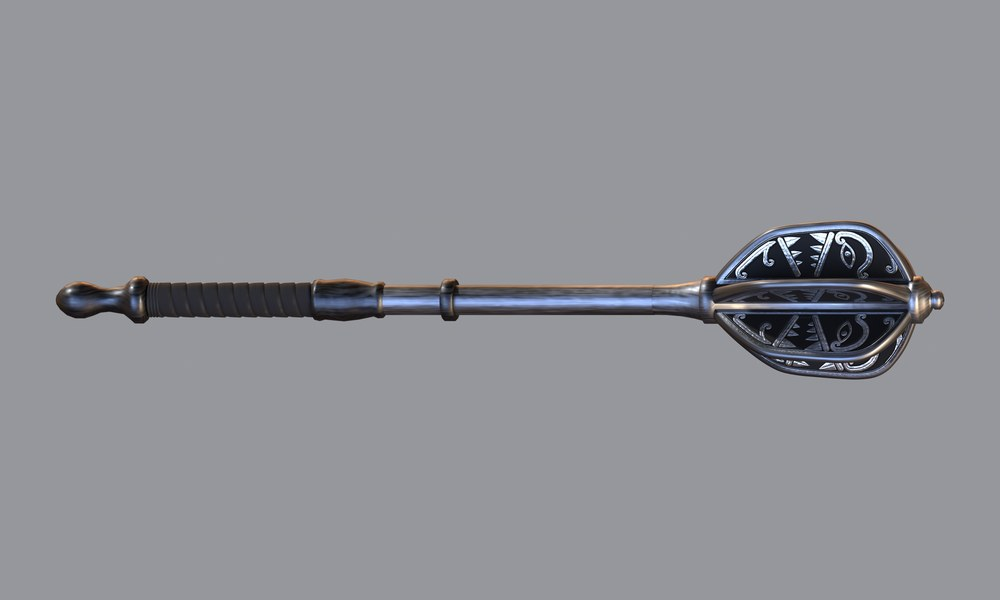
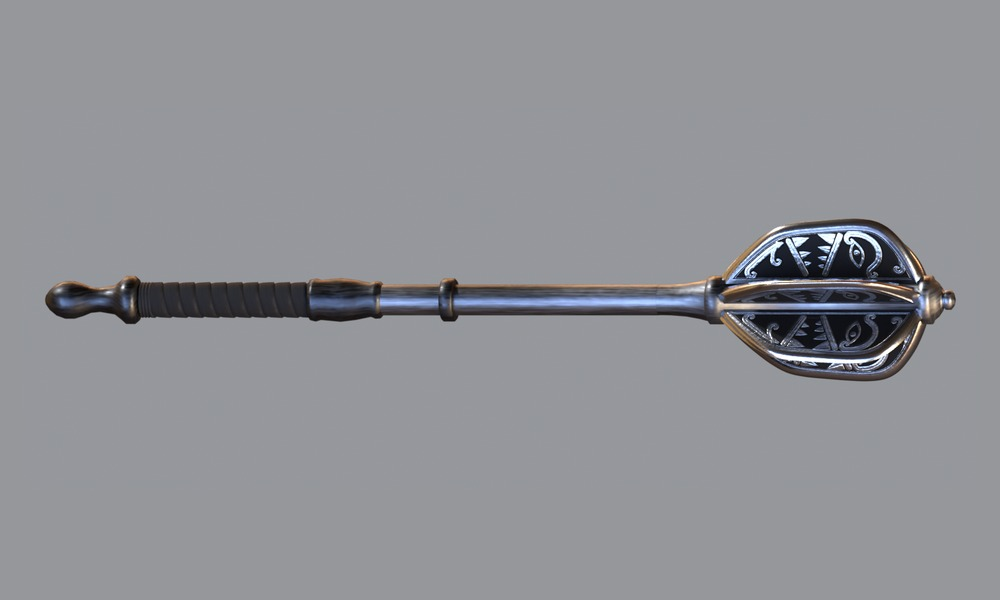
1.1.0: bow v8, greatsword v4, pointed maces; flat carved faces shade flat in game
- items.py: bow v8 (work_bow8), greatsword v4-sf (work_gs4_sf), straight sword v1-sf
  (work_straightsword_sf), six-flanged mace v4 (work_mc4, default) and classic mace v3
  (work_mc2v3, option). The -sf folders are v4 / v1 with the flat carved faces' outline
  vertices split from their chamfers (bow v8's own-vertices change); geometry and maps
  identical (set2\shading-fix-1.1.0.png).
- gb_blender.py: keep the source NIF's normal seams through the game build. The weld merged
  split vertices and PyNifly writes one normal per vertex, so every split (bow v8 included)
  was lost and the flat faces leaned ~24 deg again. The seams are recorded at the weld,
  protected from the collapse and split again after the orientation step; zero-area
  slivers are dissolved so they cannot flip a vertex normal.
- FOMOD mace pictures and descriptions: the pointed maces. README and CHANGELOG updated.

diff --git a/tools/items.py b/tools/items.py
@@ -25,9 +25,11 @@ ITEMS = {
                           "wrap": {"name": "NordicWrapA5", "tex": None, "dds_from": r"D:\Modlists\Njordlinger\mods\Nordic Carved Redesign A (test)\textures\pbr\ApocryphaTest\NordicCarvedRedesignA5\nordicwrapa5"}},
                   third="nordicsword.nif", first="1stpersonnordicsword.nif", stem="sword", weap="DLC2NordicSword", fp_stat="03C353"),
     # the straight sword (installer option, 2026-11-11): greatsword v3's blade and upper hilt as a one-hander
-    "sword2": dict(version="straight v1", sources=[W(r"work_straightsword\tn_straightsword.nif")], orient=True, option=True, path_stem="sword",
+    # 1.1.0 shading fix (2026-11-12): v1-sf = v1's NIF with the flat guard and pommel faces' outline vertices split from
+    # their chamfers (set2\shading_fix_split.py, as bow v8) - geometry and maps identical; set2\shading-fix-1.1.0.png
+    "sword2": dict(version="straight v1-sf", sources=[W(r"work_straightsword_sf\tn_straightsword.nif")], orient=True, option=True, path_stem="sword",
                    sheath=dict(version="v2", src=W(r"work_sheath_straightsword_v2\tn_sheath_straightsword_v2.nif"), tex=W(r"work_sheath_straightsword_v2\tex\tn_sheath_straightsword_v2")),
-                   shapes={"metal": {"name": "tn_straightsword", "tex": W(r"work_straightsword\tex\tn_straightsword")}, "wrap": {"name": "TNStraightswordWrap", "tex": W(r"work_straightsword\tex\tn_straightsword_wrap")}},
+                   shapes={"metal": {"name": "tn_straightsword", "tex": W(r"work_straightsword_sf\tex\tn_straightsword")}, "wrap": {"name": "TNStraightswordWrap", "tex": W(r"work_straightsword_sf\tex\tn_straightsword_wrap")}},
                    third="nordicsword.nif", first="1stpersonnordicsword.nif", stem="swordstraight", weap="DLC2NordicSword", fp_stat="03C353"),
     # v13 (approved 2026-11-11 23:57): v12's head (the owner's traced outline, 21:32; the same NIF, byte for byte) repainted
     # to the engraving layout rule - layout records in work_v13\engraving_check.json pass engraving-layout-gate
@@ -35,10 +37,13 @@ ITEMS = {
                       shapes={"metal": {"name": "TNBattleaxe", "tex": W(r"work_v13\tex\tn_battleaxe")}, "wrap": {"name": "TNBattleaxeWrap", "tex": W(r"work_v13\tex\tn_battleaxe_wrap")}},
                       third="nordicbattleaxe.nif", first="1stpersonnordicbattleaxe.nif", stem="battleaxe", weap="DLC2NordicBattleaxe", fp_stat="03C34F"),
     # orient: the ricasso wrap (TNGreatswordWrap2) came out of tn_lib wound inward on most of its faces (1.0.0)
-    "greatsword": dict(version="v3", sources=[W(r"work_gs3\tn_greatsword.nif")], orient=True,
+    # v4 (approved 2026-11-12 01:14: "Greatsword looks good"): v3 with the lower-guard medallion on a level boss;
+    # v4-sf (1.1.0 shading fix, 2026-11-12): v4's NIF with the flat guard / boss / pommel faces' outline vertices split from
+    # their chamfers (set2\shading_fix_split.py, as bow v8) - geometry and maps identical; set2\shading-fix-1.1.0.png
+    "greatsword": dict(version="v4-sf", sources=[W(r"work_gs4_sf\tn_greatsword.nif")], orient=True,
                        sheath=dict(version="v2", src=W(r"work_sheath_greatsword_v2\tn_sheath_greatsword_v2.nif"), tex=W(r"work_sheath_greatsword_v2\tex\tn_sheath_greatsword_v2")),
-                       shapes={"metal": {"name": "tn_greatsword", "tex": W(r"work_gs3\tex\tn_greatsword")}, "wrap": {"name": "TNGreatswordWrap", "tex": W(r"work_gs3\tex\tn_greatsword_wrap")},
-                               "wrap2": {"name": "TNGreatswordWrap2", "tex": W(r"work_gs3\tex\tn_greatsword_wrap2"), "target": 1500}},
+                       shapes={"metal": {"name": "tn_greatsword", "tex": W(r"work_gs4_sf\tex\tn_greatsword")}, "wrap": {"name": "TNGreatswordWrap", "tex": W(r"work_gs4_sf\tex\tn_greatsword_wrap")},
+                               "wrap2": {"name": "TNGreatswordWrap2", "tex": W(r"work_gs4_sf\tex\tn_greatsword_wrap2"), "target": 1500}},
                        third="nordicgreatsword.nif", first="1stpersonnordicgreatsword.nif", stem="greatsword", weap="DLC2NordicGreatsword", fp_stat="03C351"),
     "warhammer": dict(version="v2f", sources=[W(r"work_wh2f\tn_warhammer2.nif")], orient=True,   # v2f: v2e with the straight pommel (2026-11-11)
                       shapes={"metal": {"name": "tn_warhammer2", "tex": W(r"work_wh2f\tex\tn_warhammer2")}, "wrap": {"name": "TNWarhammer2Wrap", "tex": W(r"work_wh2f\tex\tn_warhammer2_wrap")}},
@@ -52,15 +57,18 @@ ITEMS = {
                    sheath=dict(version="v5", src=W(r"work_sheath_dagger_v5\tn_sheath_dagger_v5.nif"), tex=W(r"work_sheath_dagger_v5\tex\tn_sheath_dagger_v5")),
                    shapes={"metal": {"name": "tn_dagger2", "tex": W(r"work_dg3\tex\tn_dagger2")}, "wrap": {"name": "TNDagger2Wrap", "tex": W(r"work_dg3\tex\tn_dagger2_wrap")}},
                    third="nordicdagger.nif", first="1stpersonnordicdagger.nif", stem="dagger", weap="DLC2NordicDagger", fp_stat="03C350"),
-    "mace": dict(version="v3", sources=[W(r"work_mc3\tn_mace.nif")], orient=True,
-                 shapes={"metal": {"name": "tn_mace", "tex": W(r"work_mc3\tex\tn_mace")}, "wrap": {"name": "TNMaceWrap", "tex": W(r"work_mc3\tex\tn_mace_wrap")}},
+    # pointed maces (approved 2026-11-12 01:20: "mace looks good"): six-flanged v4 the default, classic v3 the option
+    "mace": dict(version="six-flanged v4", sources=[W(r"work_mc4\tn_mace.nif")], orient=True,
+                 shapes={"metal": {"name": "tn_mace", "tex": W(r"work_mc4\tex\tn_mace")}, "wrap": {"name": "TNMaceWrap", "tex": W(r"work_mc4\tex\tn_mace_wrap")}},
                  third="nordicmace.nif", first="1stpersonnordicmace.nif", stem="mace", weap="DLC2NordicMace", fp_stat="03C352"),
-    "mace2": dict(version="v2", sources=[W(r"work_mc2\tn_mace.nif")], orient=True, path_stem="mace",
-                  shapes={"metal": {"name": "tn_mace", "tex": W(r"work_mc2\tex\tn_mace")}, "wrap": {"name": "TNMaceWrap", "tex": W(r"work_mc2\tex\tn_mace_wrap")}},
+    "mace2": dict(version="classic v3", sources=[W(r"work_mc2v3\tn_mace.nif")], orient=True, path_stem="mace",
+                  shapes={"metal": {"name": "tn_mace", "tex": W(r"work_mc2v3\tex\tn_mace")}, "wrap": {"name": "TNMaceWrap", "tex": W(r"work_mc2v3\tex\tn_mace_wrap")}},
                   third="nordicmace.nif", first="1stpersonnordicmace.nif", stem="macev2", weap="DLC2NordicMace", fp_stat="03C352", option=True),
-    "bow": dict(version="v2", sources=[W(r"work_bow2\tn_bow2.nif")], skinned=True,
-                shapes={"metal": {"name": "tn_bow2", "tex": W(r"work_bow2\tex\tn_bow2")}, "wrap": {"name": "TNBowWrap", "tex": W(r"work_bow2\tex\tn_bow2_wrap")},
-                        "string": {"name": "TNBowString", "tex": W(r"work_bow2\tex\tn_bow2_string"), "target": None}},
+    # v8 (2026-11-12): v2's limbs, grip and string; the riser plate redesigned (v3-v8) and its flat carved faces given
+    # their own vertices (bow_v8_build.py: the surface gate passes, lean 0.3 deg p95 against v7's 24); skinned as before
+    "bow": dict(version="v8", sources=[W(r"work_bow8\tn_bow2.nif")], skinned=True,
+                shapes={"metal": {"name": "tn_bow2", "tex": W(r"work_bow8\tex\tn_bow2")}, "wrap": {"name": "TNBowWrap", "tex": W(r"work_bow8\tex\tn_bow2_wrap")},
+                        "string": {"name": "TNBowString", "tex": W(r"work_bow8\tex\tn_bow2_string"), "target": None}},
                 third="nordicbow.nif", first=None, stem="bow", weap="DLC2NordicBow", fp_stat="03CA7C"),
     "shield": dict(version="v4", sources=[W(r"work_sh4\tn_shield4.nif")], orient=True,   # v4: vanilla's placement and profile, faces outward (2026-11-11)
                    shapes={"metal": {"name": "tn_shield4_steel", "tex": W(r"work_sh4\tex\tn_shield4_steel"), "target": 18000}, "board": {"name": "tn_shield4_board", "tex": W(r"work_sh4\tex\tn_shield4_board"), "target": 2000}},

diff --git a/tools/gb_blender.py b/tools/gb_blender.py
@@ -65,6 +65,24 @@ def decimate(o, target):
     select_only(o); bpy.ops.object.mode_set(mode="EDIT"); bpy.ops.mesh.select_all(action="SELECT")
     bpy.ops.mesh.remove_doubles(threshold=0.0005, use_sharp_edge_from_normals=True)
     bpy.ops.object.mode_set(mode="OBJECT")
+    # zero-area slivers (the slab builders' tessellation leaves collinear triangles along straight outline runs, e.g.
+    # greatsword v4's upper guard back: 35) carry an arbitrary normal and a 180-degree corner, so Blender's angle-weighted
+    # vertex normal can flip at their middle vertex once a flat face has its own vertices - dissolved here
+    bm = bmesh.new(); bm.from_mesh(o.data); nf = len(bm.faces)
+    bmesh.ops.dissolve_degenerate(bm, dist=1e-5, edges=bm.edges[:])
+    stats.setdefault("degenerate_dissolved", {})[o.name] = nf - len(bm.faces); bm.to_mesh(o.data); bm.free(); o.data.update()
+    # NORMAL SEAMS (1.1.0 shading fix, 2026-11-12): where the source NIF stores a point twice with different normals
+    # (bow v8's riser, the _sf greatsword / straight sword: a flat carved face's own outline vertices, split from its
+    # chamfer so the face keeps its own normals), the weld above merged the copies and marked the edge sharp from the
+    # normals - but PyNifly writes ONE normal per vertex, so a sharp edge is only kept by splitting the vertex. Recorded
+    # here as position pairs, protected from the collapse like a UV seam, and split again after the decimation.
+    pk = lambda v: tuple(round(c, 5) for c in v.co)
+    shp = o.data.attributes.get("sharp_edge"); nseam = set(); nseam_v = set()
+    if shp:
+        for e in o.data.edges:
+            if shp.data[e.index].value:
+                a_, b_ = (pk(o.data.vertices[i]) for i in e.vertices); nseam.add(frozenset((a_, b_))); nseam_v.update(e.vertices)
+    stats.setdefault("normal_seam_edges", {})[o.name] = len(nseam)
     n0 = tris_of(o)
     if target and n0 > target:
         # UV seams are protected: every vertex on an edge whose two faces disagree on a UV is put in group 'seam',
@@ -77,6 +95,7 @@ def decimate(o, target):
             if (a[uvl].uv - b.link_loop_next[uvl].uv).length > 1e-5 or (a.link_loop_next[uvl].uv - b[uvl].uv).length > 1e-5:
                 seam.update(v.index for v in e.verts)
         bm.free()
+        seam |= nseam_v
         g = o.vertex_groups.new(name="seam"); g.add(sorted(seam), 1.0, "REPLACE")
         stats.setdefault("seam_verts", {})[o.name] = len(seam)
         m = o.modifiers.new("dec", "DECIMATE"); m.decimate_type = "COLLAPSE"; m.ratio = target / n0; m.use_collapse_triangulate = True
@@ -94,7 +113,19 @@ def decimate(o, target):
     for e in bm.edges:
         if len(e.link_faces) == 2 and e.calc_face_angle(0) > 0.87: sharp.data[e.index].value = True
     bm.free(); me.update()
+    NSEAM[o.name] = nseam
     return n0
+
+NSEAM = {}
+def split_normal_seams(o):
+    """The normal seams recorded by decimate() split again - each side keeps its own vertices, so its own normals.
+    Run AFTER orient_outward: split first, a flat face would be an island of its own and could be voted the wrong way."""
+    nseam = NSEAM.get(o.name)
+    if not nseam: return
+    me = o.data; bm = bmesh.new(); bm.from_mesh(me)
+    cut = [e for e in bm.edges if frozenset(tuple(round(c, 5) for c in v.co) for v in e.verts) in nseam]
+    bmesh.ops.split_edges(bm, edges=cut); bm.to_mesh(me); bm.free(); me.update()
+    stats.setdefault("normal_seam_split", {})[o.name] = {"recorded": len(nseam), "split_after_decimation": len(cut)}
 
 def export_single(o, path):
     select_only(o)
@@ -215,6 +246,8 @@ if C.get("orient"):
     for role, o in shapes.items():   # the npz dumps carry the oriented winding
         V, F, UV = arrays(o); np.savez(os.path.join(OUT, f"dec_{role}.npz"), V=V, F=F, UV=UV)
 
+for o in shapes.values(): split_normal_seams(o)   # after the orientation (1.1.0 shading fix)
+
 # ------------------------------------------------------------------ the sheath ('Scb'): its own approved NIF, in the weapon's frame
 # Welded and given sharp edges like the weapon's shapes, never decimated (the sheaths are ~2-4k triangles), oriented on
 # its own (the blade inside it would block every ray of the weapon's vote, and the sheath's rays the weapon's).
@@ -228,6 +261,7 @@ if C.get("sheath"):
     sh_o = sh_o[0]; sh_o.name = "dec_sheath"
     n0 = decimate(sh_o, None)
     stats["sheath"] = {"source": C["sheath"], "tris_before": n0, "tris_after": tris_of(sh_o), "orient": orient_outward([sh_o])}
+    split_normal_seams(sh_o)
     V, F, UV = arrays(sh_o); np.savez(os.path.join(OUT, "dec_sheath.npz"), V=V, F=F, UV=UV)
     export_single(sh_o, os.path.join(OUT, "dec_sheath.nif"))
     bpy.data.objects.remove(sh_o)

diff --git a/tools/build-packages.py b/tools/build-packages.py
@@ -122,9 +122,9 @@ STEPS = [  # (step, group, [(option, item, folder, image, description, default)]
          "The greatsword's double-edged blade and upper hilt at one-hand size, in a straight carved sheath of its own.", False)]),
     ("Mace", "Nordic Mace model", [
         ("Six-flanged mace (default)", "mace", "20 Mace - Six-flanged", "mace-six-flanged.jpg",
-         "A working six-flanged head, a beast's biting maw carved on every flange face.", True),
+         "A working six-flanged head with pointed striking edges, a beast's biting maw carved on every flange face.", True),
         ("Classic mace", "mace2", "21 Mace - Classic", "mace-classic.jpg",
-         "The vanilla mace's four-flanged shape, rebuilt and carved with the same biting maw.", False)]),
+         "The vanilla mace's four-flanged shape, rebuilt with pointed striking edges and carved with the same biting maw.", False)]),
     ("Shield", "Nordic Shield model", [
         ("Carved shield (default)", "shield", "30 Shield - Carved", "shield-carved.jpg",
          "The carved crest filled out to the rim, with its spikes, its four points and the steel straps at the bottom.", True),

diff --git a/README.md b/README.md
@@ -9,12 +9,12 @@ it is - its edges, its head, its silhouette - and is rebuilt to be realistic in 
 |---|---|
 | Nordic Sword | single-edged curved blade, one-piece half guard sweeping up, hooked pommel, a bold carved braid running to the point; a falchion-shaped sheath |
 | Nordic Battleaxe | a tall upper horn, one long curved cutting edge down to a single beard point, a curved back spike; steel haft forged with the head, carved knot fields, a forged knob pommel |
-| Nordic Greatsword | double-edged blade, carved guards and ricasso, two wrapped grips; a straight sheath on the back |
+| Nordic Greatsword | double-edged blade, carved guards and ricasso, a triquetra medallion on a level boss at the lower guard, two wrapped grips; a straight sheath on the back |
 | Nordic Warhammer | hammer face and curved pick, a triquetra ring centred on the face, a forged knob pommel |
 | Nordic War Axe | bearded blade with a square hammer poll, a triquetra at the widest point, a forged knob pommel |
 | Nordic Dagger | kukri form, a world serpent carved along the belly; its own sheath |
-| Nordic Mace | six-flanged head, a biting maw on every flange |
-| Nordic Bow | all-steel bow, a triquetra on the riser; the string still draws and follows the arrow |
+| Nordic Mace | six-flanged head with pointed striking edges, a biting maw on every flange |
+| Nordic Bow | all-steel bow, a carved riser plate (a triquetra in a woven field inside a braid border) and a braid band along the riser; the string still draws and follows the arrow |
 | Nordic Shield | the carved crest filled out to the rim, the four points in place; sits on the arm and on the back where the vanilla shield does |
 
 The sheaths are black leather in one piece with a carved steel mouth and tip, and stay on the hip (the greatsword's on
@@ -23,7 +23,7 @@ the back) when the weapon is drawn.
 ## The files
 Install ONE of the four main files. Each has its own installer with three choices, each shown with a picture: the
 sword (curved saber, the default, or a straight sword), the mace (six-flanged, the default, or the classic four-flanged
-one) and the shield (carved, the default, or clean). Only the chosen model is installed, at the one path every record
+one, both with pointed striking edges) and the shield (carved, the default, or clean). Only the chosen model is installed, at the one path every record
 uses, so nothing is left over. To change a choice later, reinstall and pick again.
 
 | Main file | What it does |

diff --git a/CHANGELOG.md b/CHANGELOG.md
@@ -18,11 +18,15 @@ Written as changes happen, not reconstructed afterwards (rule 61). Each version 
 - Sheaths: the curved sword, the straight sword, the greatsword and the dagger each have a carved sheath of black leather with a carved steel locket and tip. It stays on the hip or back when the weapon is drawn.
 
 ### Changed
+- Both maces have pointed striking edges: the six-flanged mace (the default) and the classic four-flanged one (the installer option).
+- The greatsword's lower-guard medallion sits on a level boss.
+- The bow's riser is carved anew: a steel plate with a triquetra in a woven field inside a braid border, and a braid band running along the riser. It is still skinned to the vanilla bow's bones, so the string draws and follows the arrow.
 - The release is four main files (Replacer - No ESP, Replacer - ESP, Standalone - Nordic quality, Standalone - Ebony quality), each with its own installer that asks for the sword, the mace and the shield; the ESP / No ESP choice is now the choice of file.
 - The curved sword's blade engraving now runs all the way up to the point.
 - The battleaxe has a new head: a tall upper horn, one long curved cutting edge down to a single sharp beard point, and a curved back spike.
 
 ### Fixed
+- The flat carved faces of the greatsword's guards and pommel, the straight sword's guard and pommel and the bow's riser looked uneven under light, like a cushion, because their edges were smoothed into the bevel round them. They now shade flat; the shape and the carving are unchanged.
 - The greatsword's leather wrap above the guard could be seen through: its faces pointed inward. Every face now points outward, and the build now refuses any model with faces wound the wrong way.
 
 ## 1.0.0 - 2026-11-10 - untested
